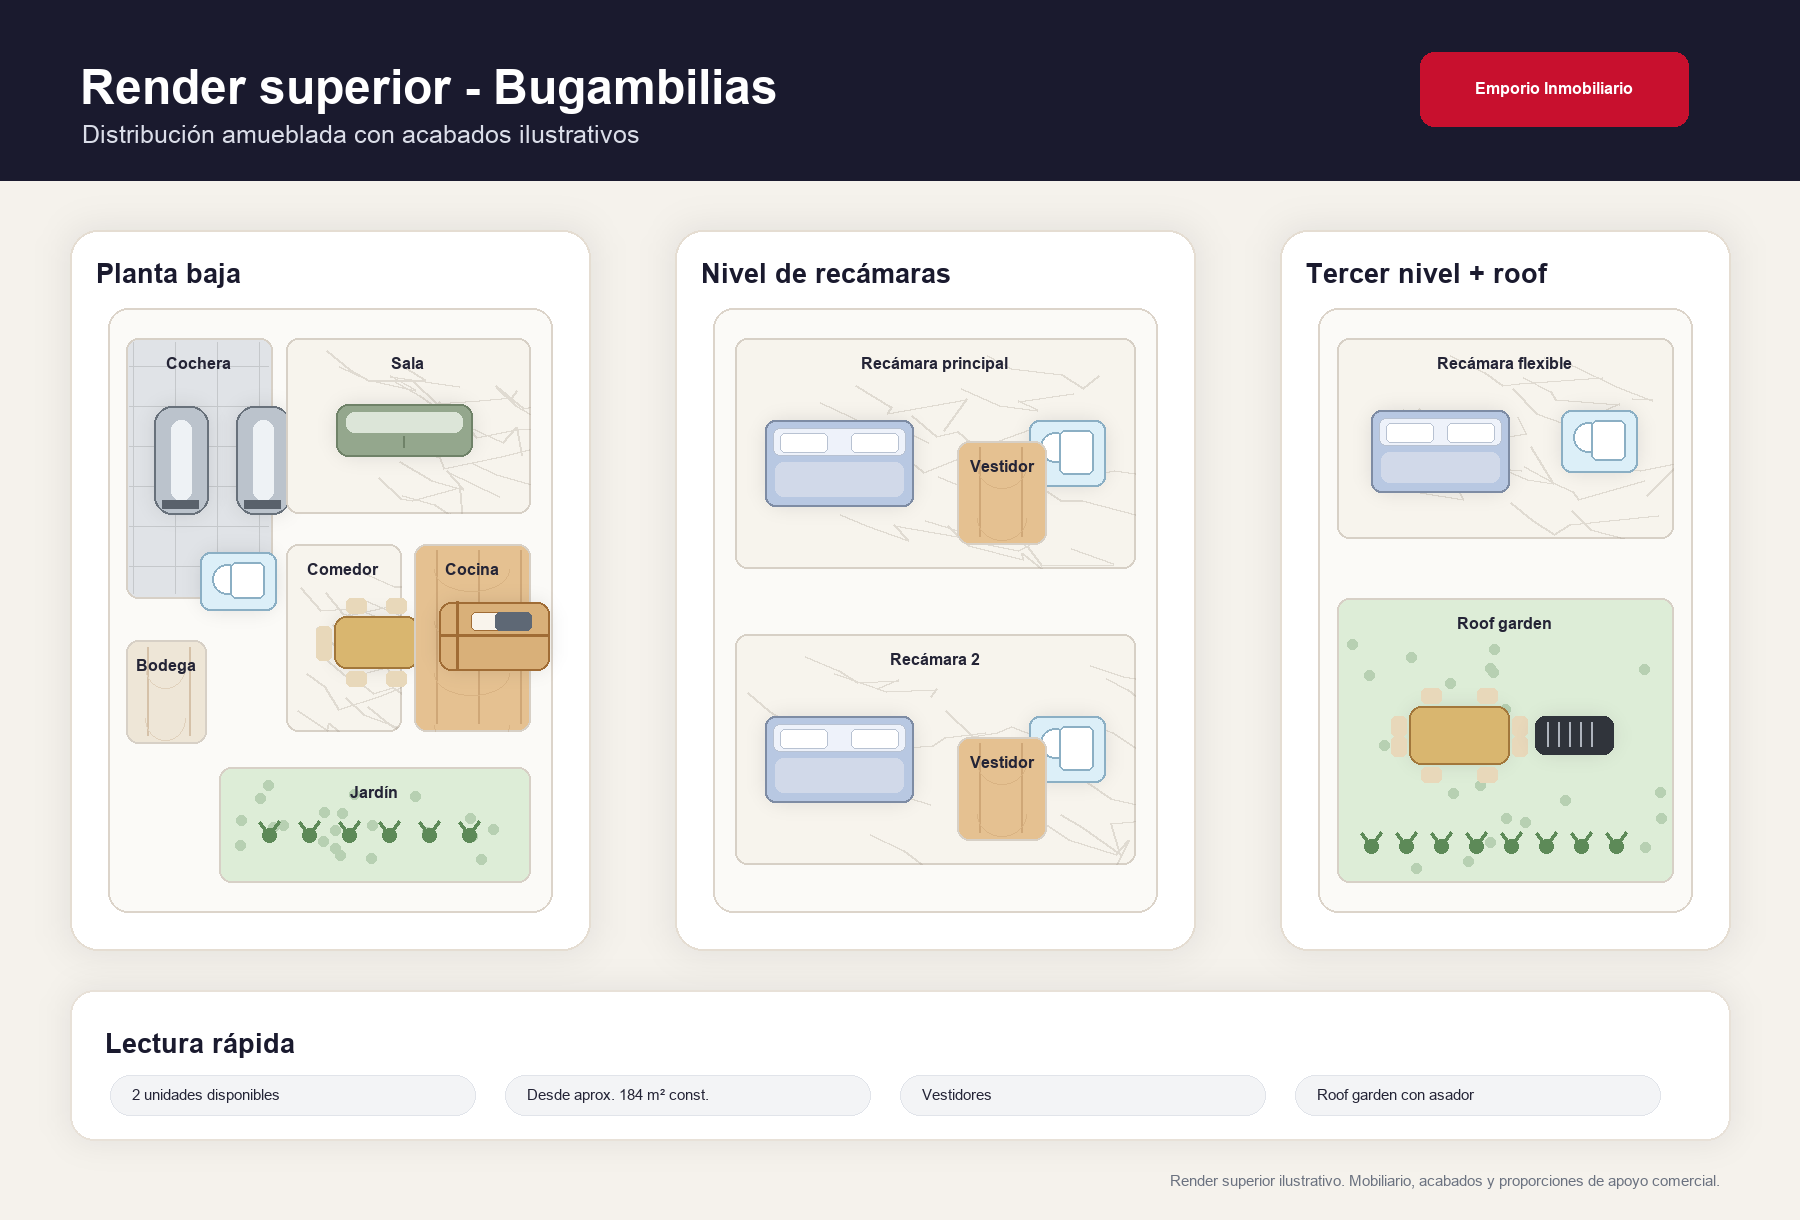
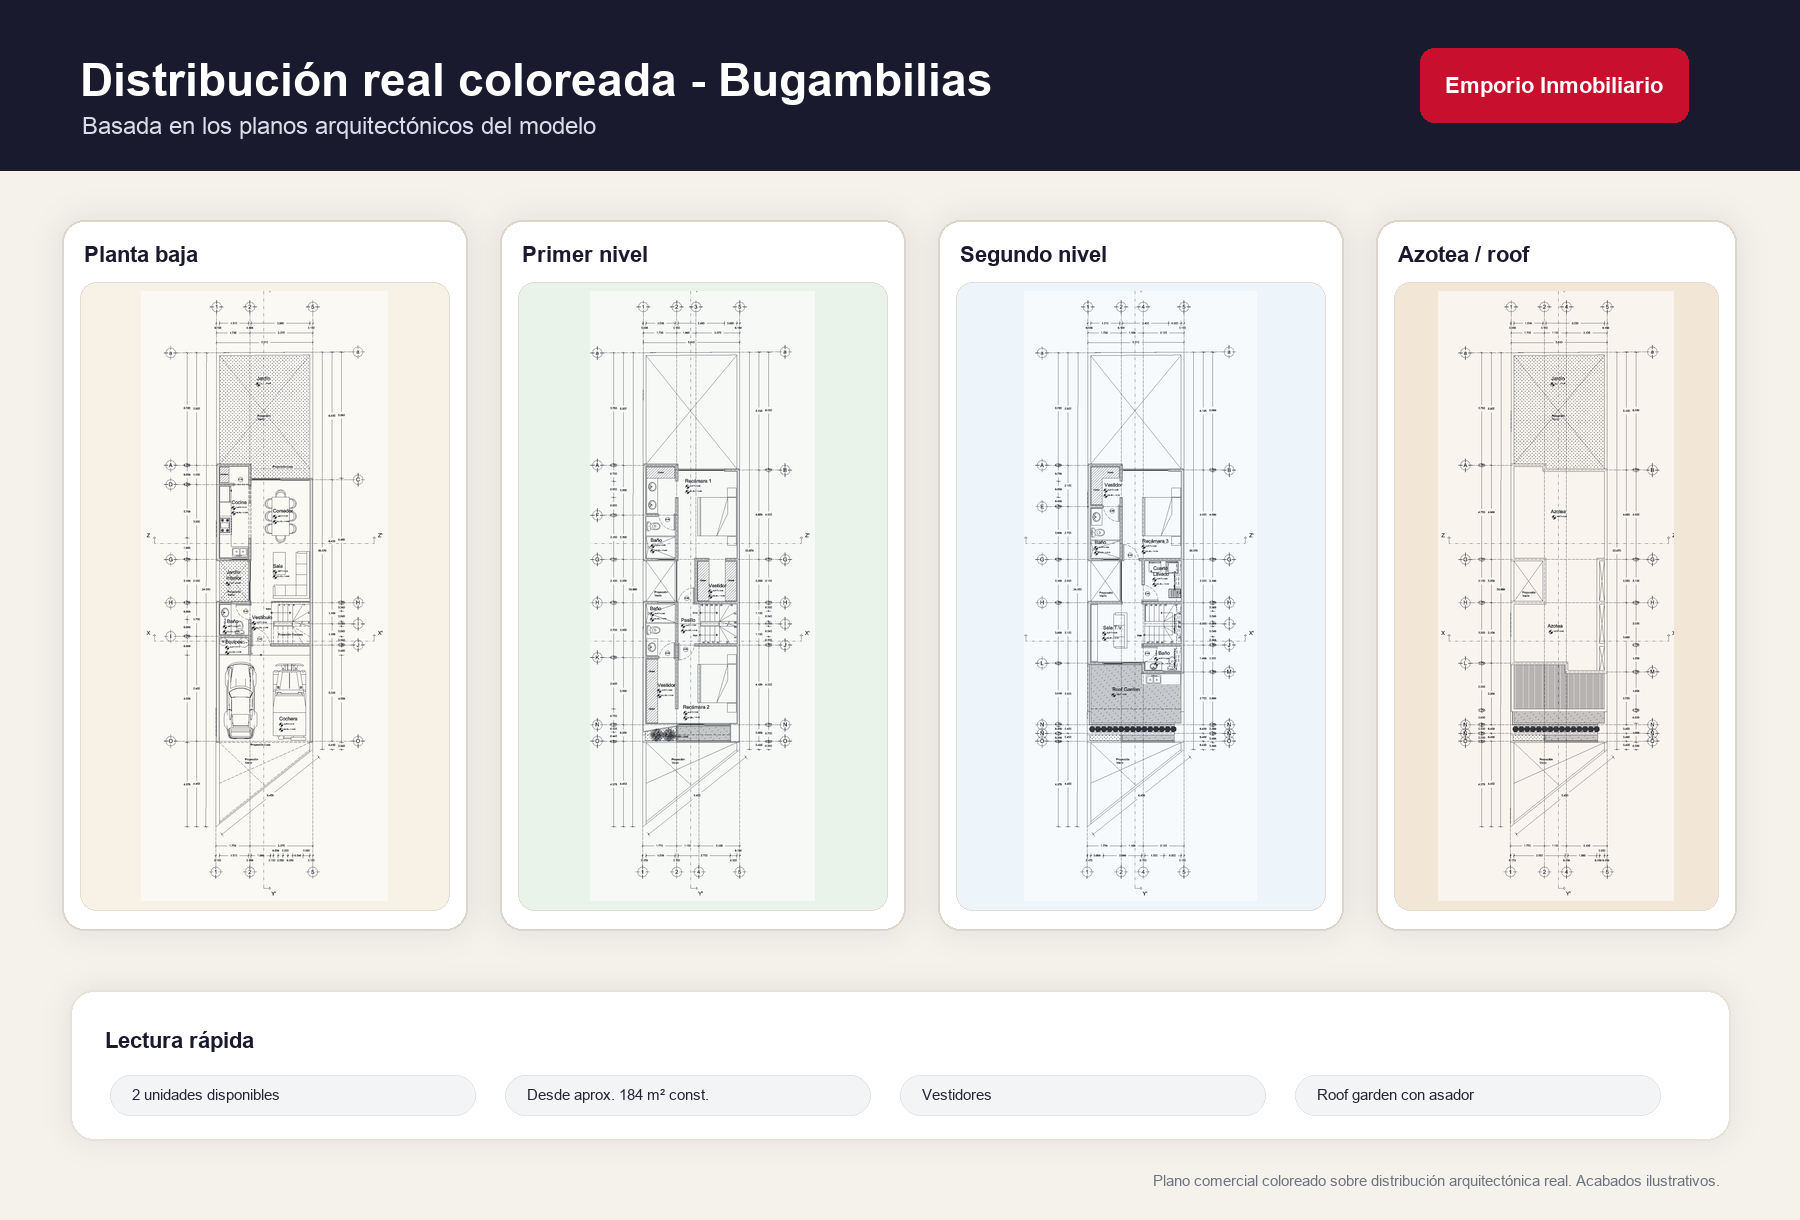
Corregir distribuciones de casas nuevas

Changed region(s): [[0.0, 0.0311, 1.0, 0.7787], [0.6533, 0.9656, 0.9333, 0.9967], [0.0622, 0.841, 0.1556, 0.8721]]

diff --git a/pages/casas-nuevas/[slug].js b/pages/casas-nuevas/[slug].js
@@ -161,9 +161,9 @@ export default function CasasNuevasDetalle({ coleccion, propiedades }) {
               {coleccion.distribucionImagen && (
                 <section style={panelStyle}>
                   <p style={eyebrowStyle}>Distribución</p>
-                  <h2 style={sectionTitleStyle}>Render superior del modelo</h2>
+                  <h2 style={sectionTitleStyle}>Distribución real coloreada</h2>
                   <p style={{ ...bodyStyle, marginBottom: 16 }}>
-                    Vista ilustrativa amueblada para leer rápido cómo se reparte la casa por nivel y visualizar acabados. Es material de apoyo comercial; las medidas y detalles finales se confirman en la ficha y visita.
+                    Plano comercial basado en la distribución arquitectónica real para leer rápido cómo se reparte la casa por nivel. Los colores y acabados son ilustrativos; las medidas y detalles finales se confirman en la ficha y visita.
                   </p>
                   <div style={{ border: "1px solid #f0f0f0", borderRadius: 12, overflow: "hidden", background: "#f8f8fa" }}>
                     <img
